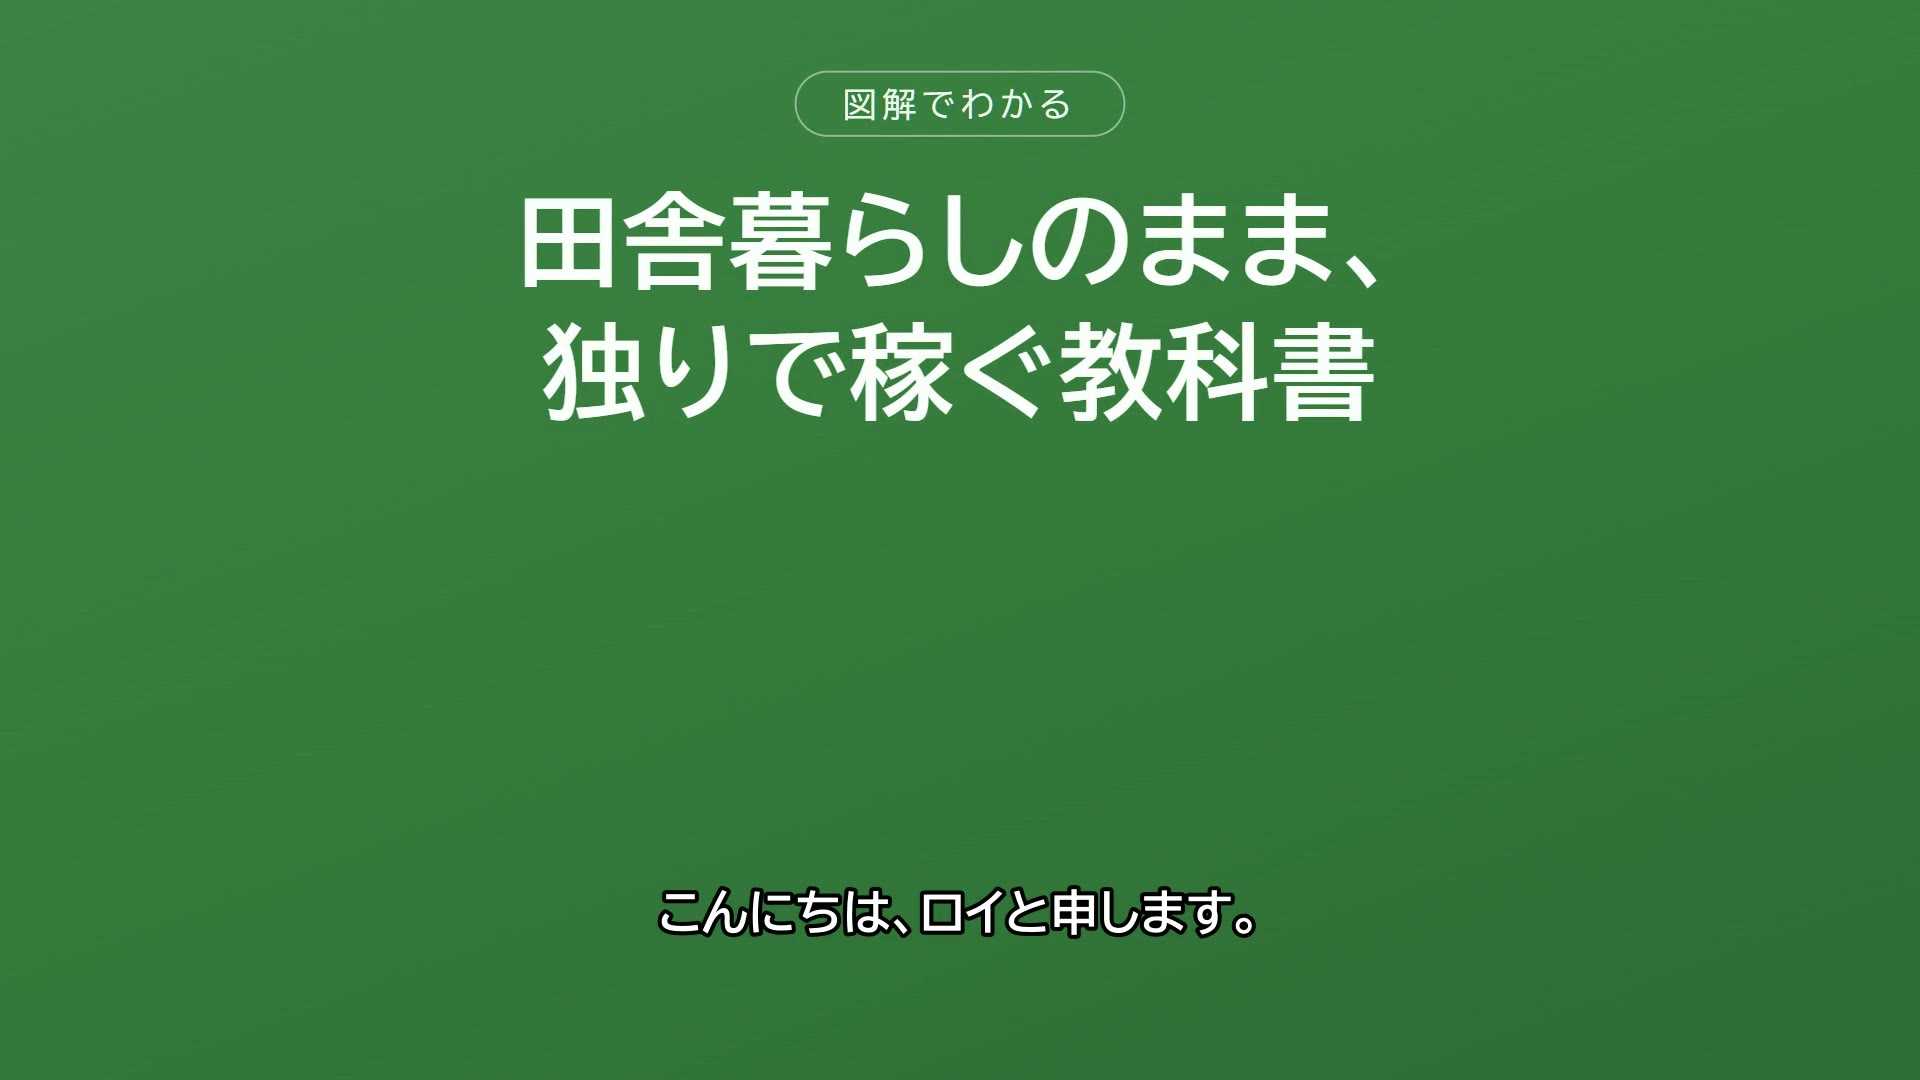
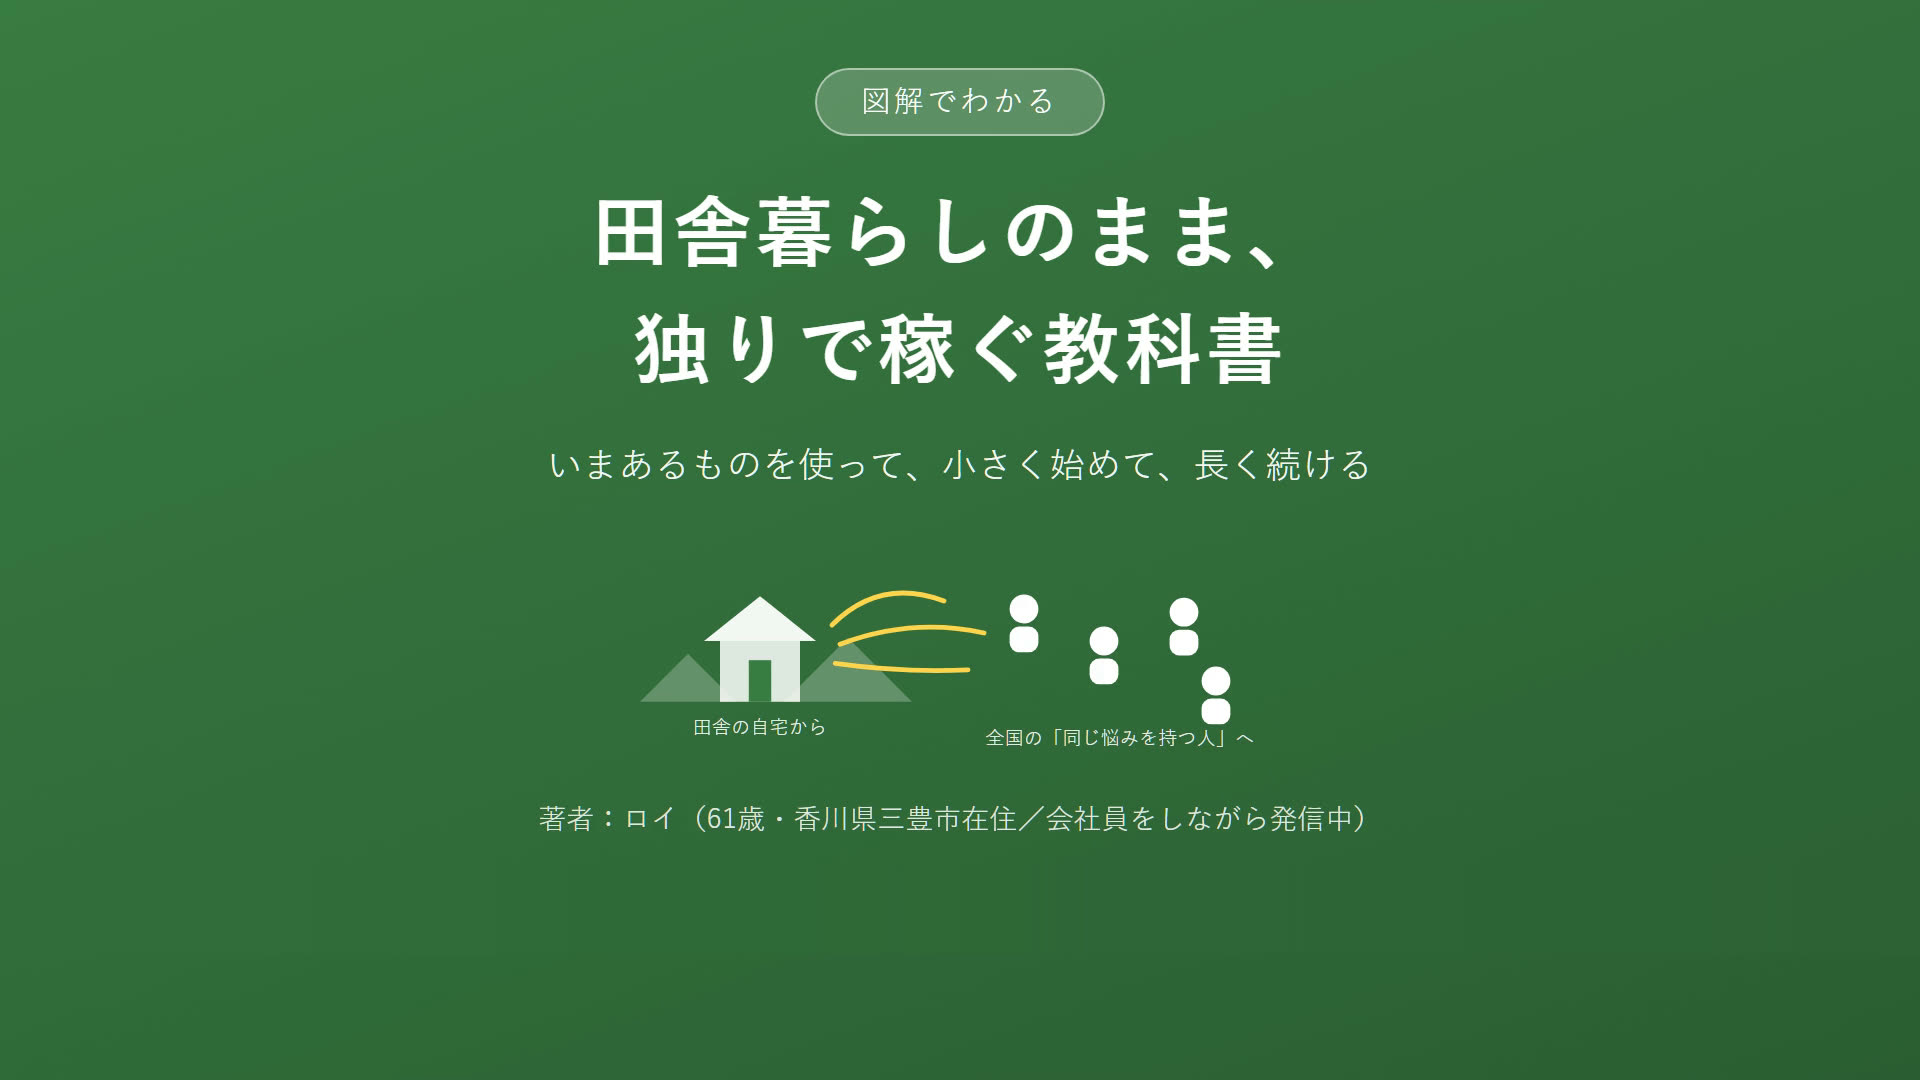
サムネイルを元スライド画像に差し替え、ダウンロード以外の操作制限を解除
- poster画像を動画からの抜き出しではなく、元の表紙スライド(PNG)に変更（高画質）
- controlsListから nodownload 以外(noplaybackrate/noremoteplayback)を削除
- disablePictureInPicture と右クリック禁止(oncontextmenu)を解除
  ダウンロードだけを止め、それ以外の操作性は元どおりにする指示のため

diff --git a/material/inaka-hitori-kasegu.html b/material/inaka-hitori-kasegu.html
@@ -564,42 +564,42 @@
     <span class="badge">まずはこちら</span>
     <h3>第0回　予告編</h3>
     <p>この講座で得られることを1分ちょっとでご紹介します。</p>
-    <video controls controlsList="nodownload noplaybackrate noremoteplayback" disablePictureInPicture oncontextmenu="return false" preload="metadata" poster="../videos/kouza_ep0.jpg" src="../videos/kouza_ep0.mp4"></video>
+    <video controls controlsList="nodownload" preload="metadata" poster="../videos/kouza_ep0.jpg" src="../videos/kouza_ep0.mp4"></video>
   </div>
 
   <div class="video-grid">
     <div class="video-card" id="ep1">
-      <video controls controlsList="nodownload noplaybackrate noremoteplayback" disablePictureInPicture oncontextmenu="return false" preload="metadata" poster="../videos/kouza_ep1.jpg" src="../videos/kouza_ep1.mp4"></video>
+      <video controls controlsList="nodownload" preload="metadata" poster="../videos/kouza_ep1.jpg" src="../videos/kouza_ep1.mp4"></video>
       <p class="num">第1回</p>
       <h4>田舎は不利じゃない</h4>
       <p>「田舎だから稼げない」は思い込み。むしろ田舎だからこそ活かせる強みを解説します。</p>
     </div>
     <div class="video-card" id="ep2">
-      <video controls controlsList="nodownload noplaybackrate noremoteplayback" disablePictureInPicture oncontextmenu="return false" preload="metadata" poster="../videos/kouza_ep2.jpg" src="../videos/kouza_ep2.mp4"></video>
+      <video controls controlsList="nodownload" preload="metadata" poster="../videos/kouza_ep2.jpg" src="../videos/kouza_ep2.mp4"></video>
       <p class="num">第2回</p>
       <h4>稼ぐ仕組みは3段階</h4>
       <p>いきなり大きく始めなくても大丈夫。無理なく積み上げる3段階の考え方をお伝えします。</p>
     </div>
     <div class="video-card" id="ep3">
-      <video controls controlsList="nodownload noplaybackrate noremoteplayback" disablePictureInPicture oncontextmenu="return false" preload="metadata" poster="../videos/kouza_ep3.jpg" src="../videos/kouza_ep3.mp4"></video>
+      <video controls controlsList="nodownload" preload="metadata" poster="../videos/kouza_ep3.jpg" src="../videos/kouza_ep3.mp4"></video>
       <p class="num">第3回</p>
       <h4>売り物の見つけ方</h4>
       <p>自分では気づきにくい「売れる得意」の見つけ方を、具体的な視点で紹介します。</p>
     </div>
     <div class="video-card" id="ep4">
-      <video controls controlsList="nodownload noplaybackrate noremoteplayback" disablePictureInPicture oncontextmenu="return false" preload="metadata" poster="../videos/kouza_ep4.jpg" src="../videos/kouza_ep4.mp4"></video>
+      <video controls controlsList="nodownload" preload="metadata" poster="../videos/kouza_ep4.jpg" src="../videos/kouza_ep4.mp4"></video>
       <p class="num">第4回</p>
       <h4>収入の柱を3本立てる</h4>
       <p>ひとつに頼らない、無理のない収入の組み立て方を解説します。</p>
     </div>
     <div class="video-card" id="ep5">
-      <video controls controlsList="nodownload noplaybackrate noremoteplayback" disablePictureInPicture oncontextmenu="return false" preload="metadata" poster="../videos/kouza_ep5.jpg" src="../videos/kouza_ep5.mp4"></video>
+      <video controls controlsList="nodownload" preload="metadata" poster="../videos/kouza_ep5.jpg" src="../videos/kouza_ep5.mp4"></video>
       <p class="num">第5回</p>
       <h4>売るときの基本ルール5つ</h4>
       <p>販売でつまずかないために、最初に押さえておきたい基本ルールをまとめました。</p>
     </div>
     <div class="video-card" id="ep6">
-      <video controls controlsList="nodownload noplaybackrate noremoteplayback" disablePictureInPicture oncontextmenu="return false" preload="metadata" poster="../videos/kouza_ep6.jpg" src="../videos/kouza_ep6.mp4"></video>
+      <video controls controlsList="nodownload" preload="metadata" poster="../videos/kouza_ep6.jpg" src="../videos/kouza_ep6.mp4"></video>
       <p class="num">第6回</p>
       <h4>最初の90日でやること</h4>
       <p>迷わず動けるよう、最初の90日の具体的な進め方をお伝えします。</p>
